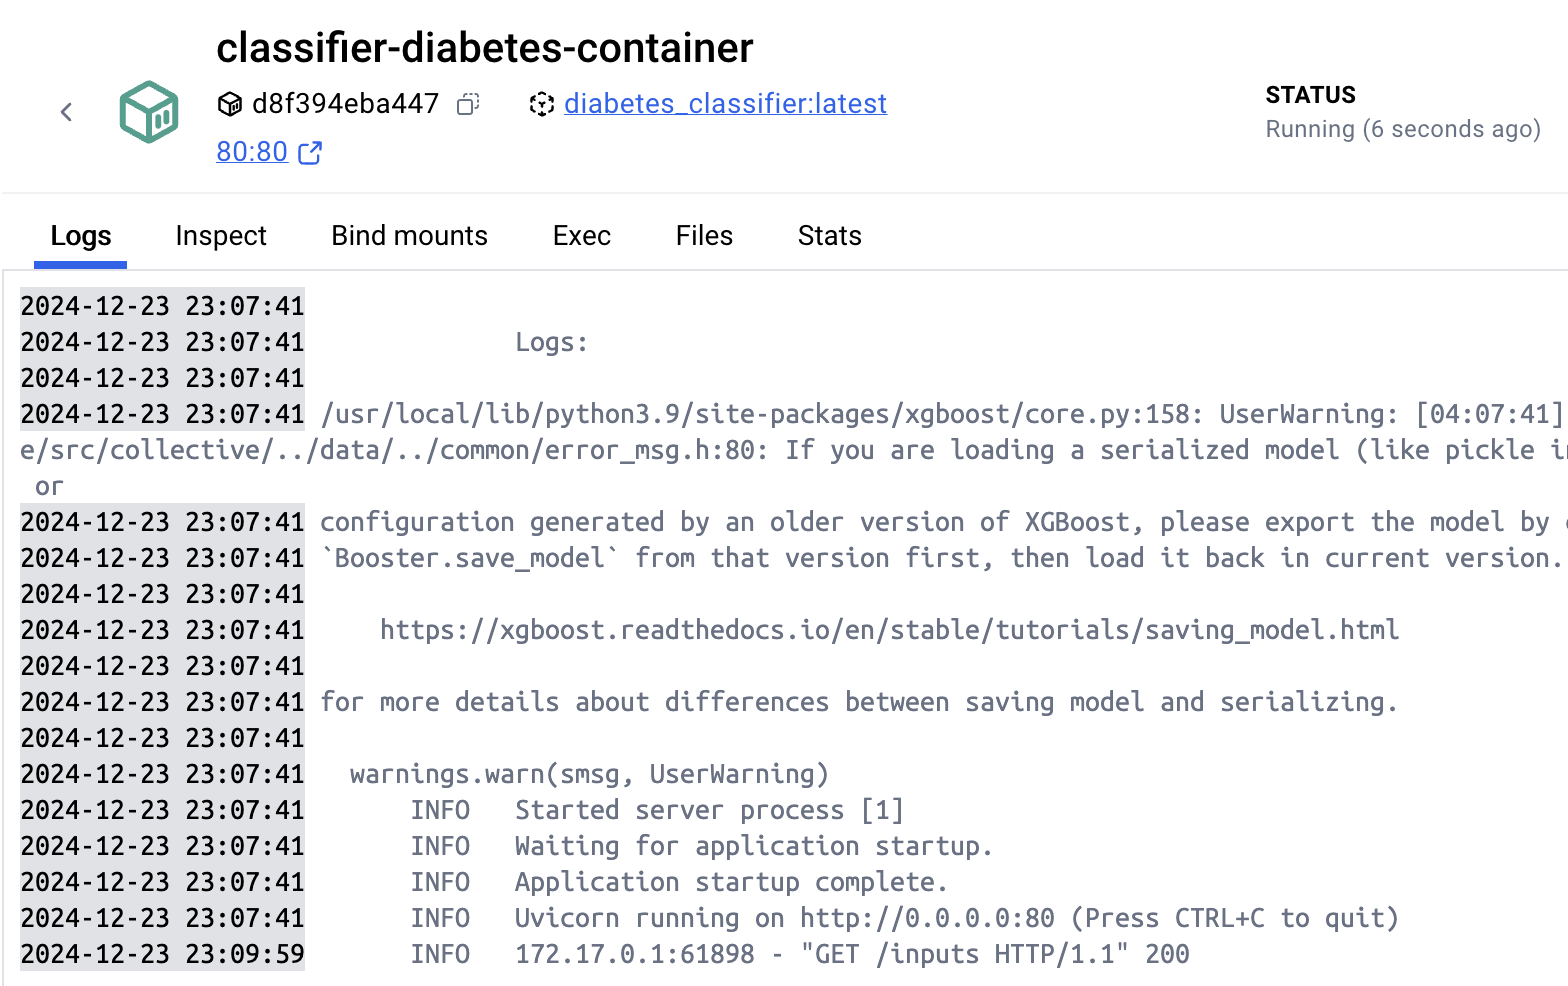
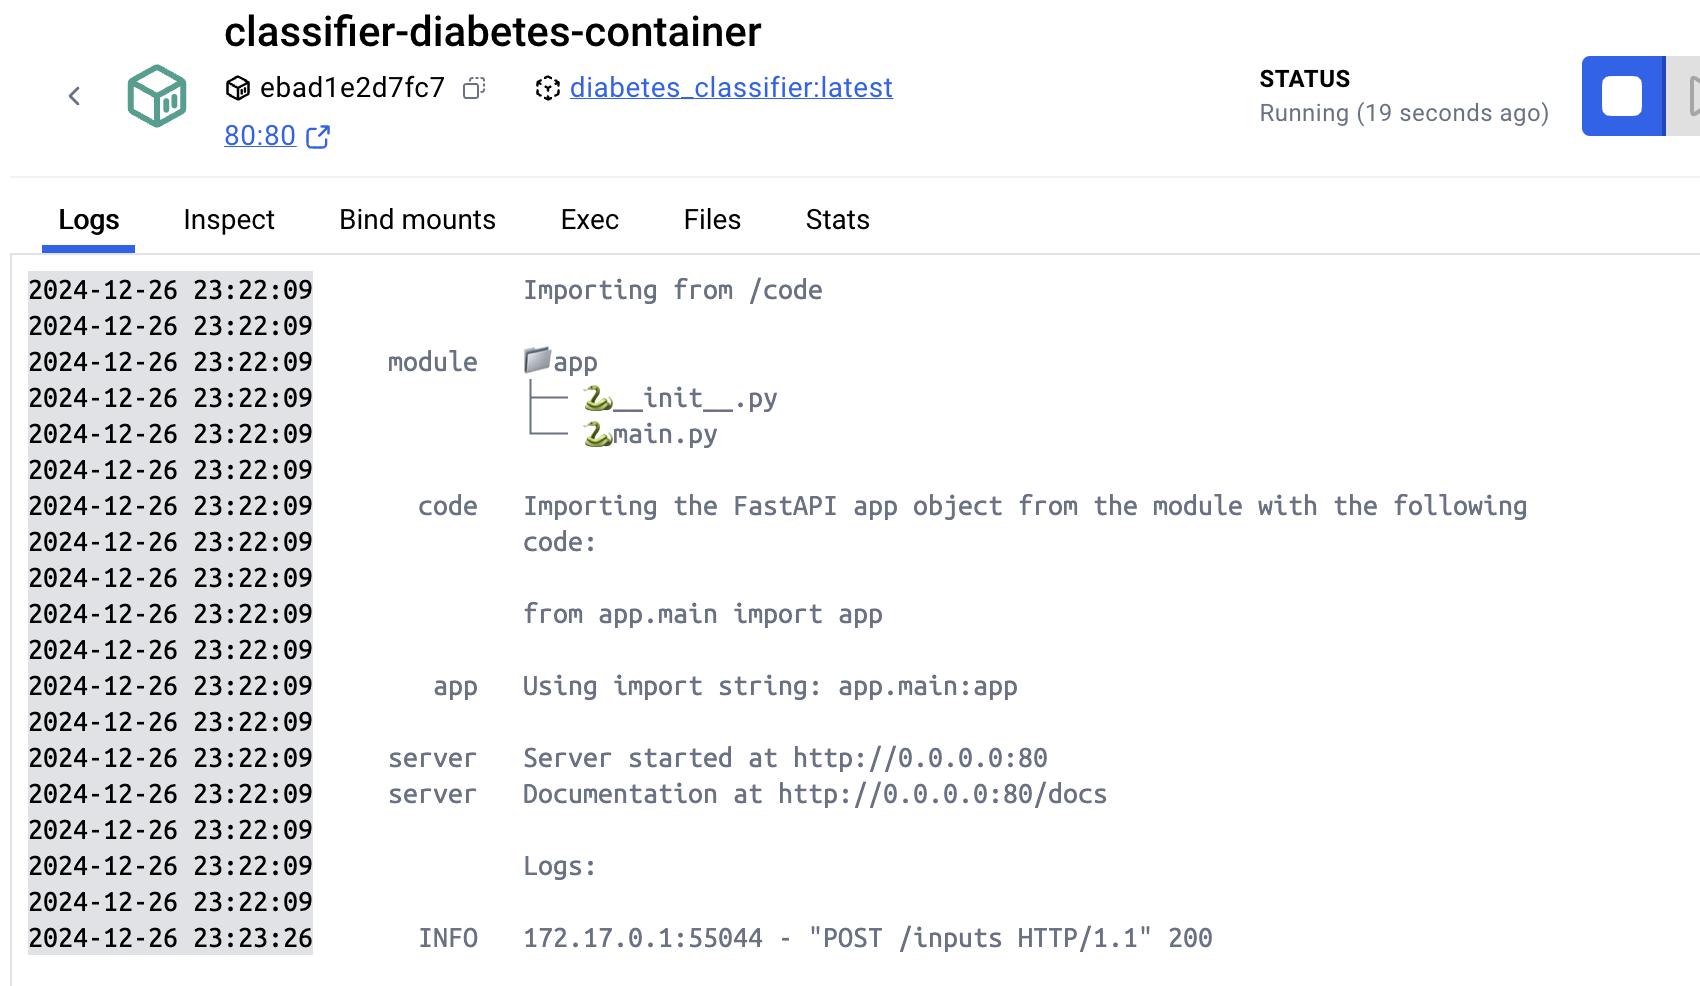
update: GET to POST update

Changed region(s): [[0.0, 0.213, 1.0, 1.0], [0.0312, 0.0, 0.5625, 0.1826], [0.7188, 0.0304, 1.0, 0.1521]]

diff --git a/readme.md b/readme.md
@@ -27,7 +27,7 @@ Steps associated with the model deployment pipeline:
 
 API details
 
-1. method: GET
+1. method: POST
 2. endpoint: `/inputs`
 3. body: glucose (float), insulin (float), bmi (float), age (int)
 4. response: dict {"status": "diabetic/undiabetic"}
